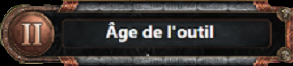
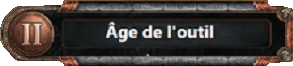
Débug

diff --git a/hud.py b/hud.py
@@ -38,7 +38,7 @@ class Hud:
         # self.hud_age_surface.fill(self.hud_colour)
         self.hud_age = pg.image.load("assets/hud/hud_age.png")
         self.hud_age2 = pg.image.load("assets/hud/hud_age2.png")
-        self.hud_age3 = pg.image.load("assets/hud/hud_age3.jpg")
+        self.hud_age3 = pg.image.load("assets/hud/hud_age3.png")
 
         self.hud_action_surface = pg.Surface((width * 0.35, height * 0.29), pg.SRCALPHA)
         self.hud_action_rect = self.hud_action_surface.get_rect(topleft=(self.width - 413, self.height - 205))
